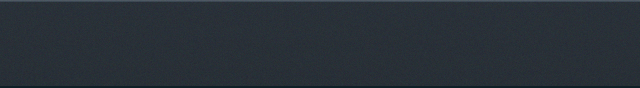
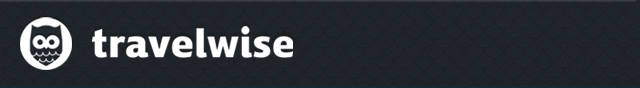
name change

Changed region(s): [[0.0312, 0.1818, 0.4688, 0.7955], [0.0, 0.0, 1.0, 0.0227]]

diff --git a/myTranspo/XIBs/MenuTableViewController.h b/myTranspo/XIBs/MenuTableViewController.h
@@ -23,8 +23,6 @@
     NSTimer*                        _actionUpdates;
     NSMutableArray*                 _menu;
     IBOutlet UIButton*              _accountButton;
-    IBOutlet UILabel*               _accountLabel;
-    IBOutlet UIImageView*           _accountIcon;
 }
 
 @property (nonatomic, weak)     IBOutlet UITableView*       tableView;

diff --git a/myTranspo/XIBs/MenuTableViewController.m b/myTranspo/XIBs/MenuTableViewController.m
@@ -71,8 +71,6 @@
         [_actionUpdates invalidate];
     
     _accountButton = nil;
-    _accountIcon = nil;
-    _accountIcon = nil;
 }
 
 - (void)viewWillAppear:(BOOL)animated
